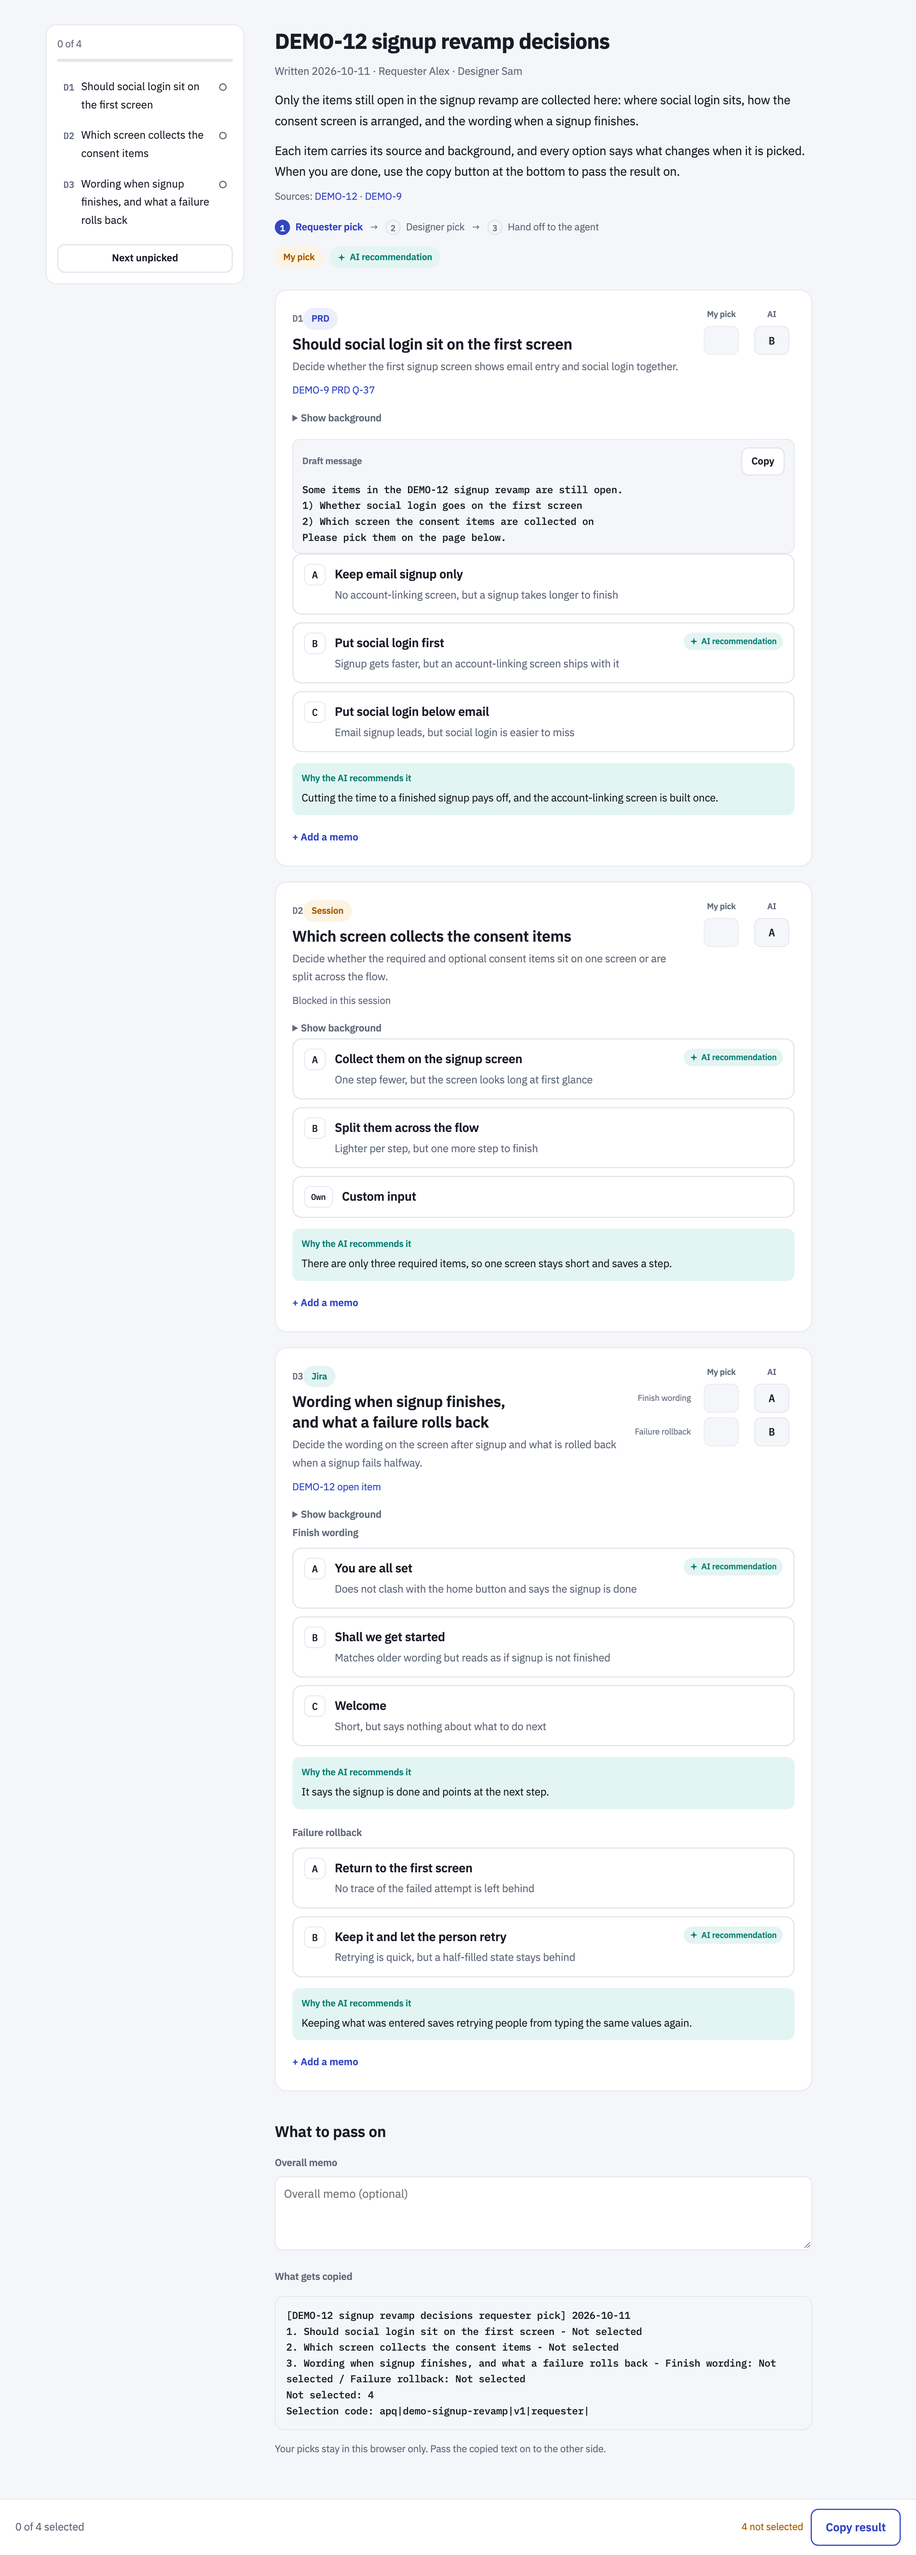
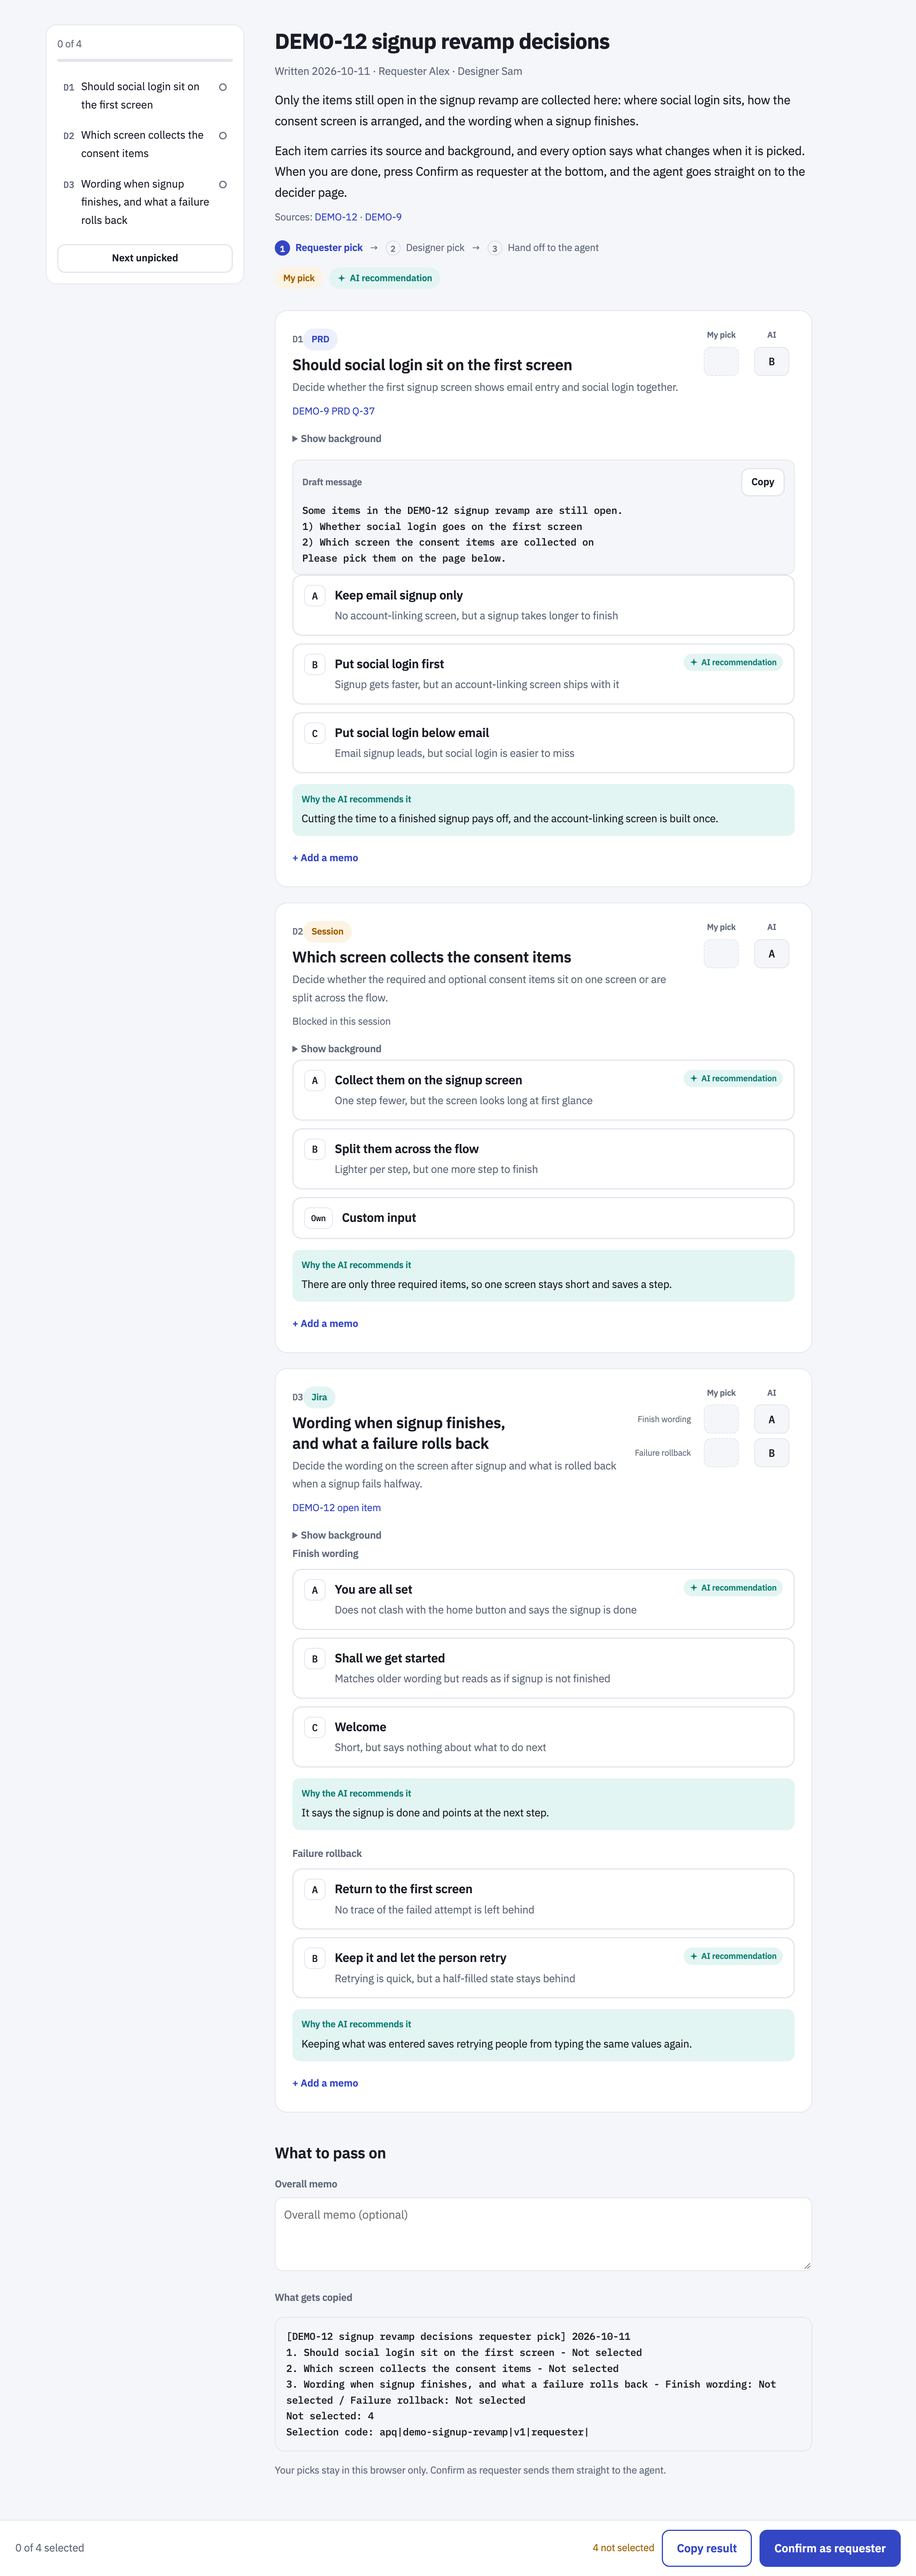
fix: 요청자 확인 페이지의 복사 안내 문구와 README 요청자 예시 그림 교체

diff --git a/skills/pickme/template.html b/skills/pickme/template.html
@@ -338,8 +338,10 @@
       "customNoteHead": "{label} 직접 입력",
       "progressOf": "{total}개 중 {done}개",
       "completeBar": "모두 골랐어요. 결과를 복사해 전달해 주세요",
+      "completeBarSubmit": "모두 골랐어요. 요청자 확인을 눌러 주세요",
       "progressSelected": "{total}개 중 {done}개 선택",
       "toastAllPicked": "모두 골랐어요. 아래 결과 복사를 눌러 주세요",
+      "toastAllPickedSubmit": "모두 골랐어요. 아래 요청자 확인을 눌러 주세요",
       "requesterBadge": "요청자",
       "requesterInputPrefix": "요청자 입력: ",
       "aiBadge": "AI 권장",
@@ -373,6 +375,7 @@
       "noteAria": "전체 메모",
       "copyTargetHead": "복사될 내용",
       "footNote": "선택 내용은 이 브라우저에만 임시로 남습니다. 복사한 내용을 상대방에게 전달해 주세요.",
+      "footNoteSubmit": "선택 내용은 이 브라우저에만 임시로 남습니다. 요청자 확인을 누르면 에이전트에 바로 전달됩니다.",
       "gotoUnselected": "미선택 항목으로",
       "gotoUnselectedShort": "미선택으로",
       "filterOnlyDifferences": "다른 항목만 보기",
@@ -423,8 +426,10 @@
       "customNoteHead": "{label} custom input",
       "progressOf": "{done} of {total}",
       "completeBar": "All picked. Copy the result and pass it on",
+      "completeBarSubmit": "All picked. Press Confirm as requester",
       "progressSelected": "{done} of {total} selected",
       "toastAllPicked": "All picked. Press Copy result below",
+      "toastAllPickedSubmit": "All picked. Press Confirm as requester below",
       "requesterBadge": "Requester",
       "requesterInputPrefix": "Requester input: ",
       "aiBadge": "AI recommendation",
@@ -458,6 +463,7 @@
       "noteAria": "Overall memo",
       "copyTargetHead": "What gets copied",
       "footNote": "Your picks stay in this browser only. Pass the copied text on to the other side.",
+      "footNoteSubmit": "Your picks stay in this browser only. Confirm as requester sends them straight to the agent.",
       "gotoUnselected": "Next unpicked",
       "gotoUnselectedShort": "Next unpicked",
       "filterOnlyDifferences": "Only differing items",
@@ -1042,7 +1048,7 @@
       railFill.style.width = pct;
       mFill.style.width = pct;
       var complete = total > 0 && unselected === 0;
-      abCount.textContent = complete ? t("completeBar") : tf("progressSelected", { total: total, done: done });
+      abCount.textContent = complete ? t(submitMode ? "completeBarSubmit" : "completeBar") : tf("progressSelected", { total: total, done: done });
       abCount.classList.toggle("ready", complete);
       abWarn.textContent = unselected > 0 ? tf("unselectedShort", { n: unselected }) : "";
       abBtn.classList.toggle("primary", complete);
@@ -1052,7 +1058,7 @@
         void actionbar.offsetWidth;
         actionbar.classList.add("pulse");
         setTimeout(function () { actionbar.classList.remove("pulse"); }, 520);
-        toast(t("toastAllPicked"));
+        toast(t(submitMode ? "toastAllPickedSubmit" : "toastAllPicked"));
       }
       completeSeen = complete;
       summaryEl.textContent = buildText();
@@ -1288,7 +1294,7 @@
     sum.appendChild(noteArea);
     sum.appendChild(el("div", { class: "part-label", text: t("copyTargetHead") }));
     sum.appendChild(summaryEl);
-    sum.appendChild(el("p", { class: "foot-note", text: t("footNote") }));
+    sum.appendChild(el("p", { class: "foot-note", text: t(submitMode ? "footNoteSubmit" : "footNote") }));
 
     var doc = el("div", { class: "doc" }, [head, cardList, sum]);
 

diff --git a/skills/pickme/test_render.py b/skills/pickme/test_render.py
@@ -428,7 +428,7 @@ class RenderTests(unittest.TestCase):
         proc = run_render("render", str(EXAMPLE), "--out", str(out))
         self.assertEqual(proc.returncode, 0, proc.stderr)
         _, text = payload_of(out)
-        self.assertIn('abCount.textContent = complete ? t("completeBar") : tf("progressSelected", { total: total, done: done });', text)
+        self.assertIn('abCount.textContent = complete ? t(submitMode ? "completeBarSubmit" : "completeBar") : tf("progressSelected", { total: total, done: done });', text)
         self.assertIn('abCount.classList.toggle("ready", complete);', text)
         self.assertIn(".ab-count.ready {", text)
         ready = re.search(r'\.ab-count\.ready\s*\{([^}]*)\}', text)
@@ -438,7 +438,7 @@ class RenderTests(unittest.TestCase):
         # 완료로 바뀌는 순간에만 한 번 알린다
         self.assertIn("var completeSeen = null;", text)
         self.assertIn("if (completeSeen === false && complete) {", text)
-        self.assertIn('toast(t("toastAllPicked"));', text)
+        self.assertIn('toast(t(submitMode ? "toastAllPickedSubmit" : "toastAllPicked"));', text)
         self.assertRegex(text, r'\.actionbar\.pulse\s+\.btn\s*\{[^}]*animation:\s*abpulse')
         self.assertRegex(text, r'@keyframes abpulse\s*\{')
         motion = REDUCED_MOTION_RE.search(text)
@@ -514,6 +514,22 @@ class RenderTests(unittest.TestCase):
         self.assertIn('abCount.textContent = t("submittedMsg");', text)
         self.assertIn("abSubmit.disabled = true;", text)
         self.assertIn("abBtn.disabled = true;", text)
+
+    def test_submit_mode_guidance_points_at_the_submit_button(self):
+        out = self.tmp / "local.html"
+        proc = run_render("render", str(EXAMPLE), "--out", str(out),
+                          "--submit-url", "http://127.0.0.1:8123/tok/submit")
+        self.assertEqual(proc.returncode, 0, proc.stderr)
+        _, text = payload_of(out)
+        for key in ("footNote", "completeBar", "toastAllPicked"):
+            self.assertIn('t(submitMode ? "%sSubmit" : "%s")' % (key, key), text)
+            # 두 언어 모두 전송 버튼 이름을 안내하고 복사를 말하지 않는다
+            for lang, button in (("ko", "요청자 확인"), ("en", "Confirm as requester")):
+                found = re.findall(r'"%sSubmit": "([^"]*)"' % key, text)
+                self.assertEqual(len(found), 2, key)
+                line = found[0] if lang == "ko" else found[1]
+                self.assertIn(button, line)
+                self.assertNotIn("복사" if lang == "ko" else "Copy", line)
 
     def test_submit_url_is_absent_without_the_flag(self):
         out = self.tmp / "plain.html"

diff --git a/docs/capture.py b/docs/capture.py
@@ -44,6 +44,8 @@ Object.keys(memos).forEach(function (id) {
   area.value = memos[id];
   fire(area, "input");
 });
+// 모두 고르면 뜨는 토스트는 캡처 시점에 따라 찍히기도 해서 그림마다 결과가 달라진다
+document.querySelectorAll(".toast").forEach(function (node) { node.style.display = "none"; });
 console.log("pickme-page-height:" + Math.ceil(document.documentElement.scrollHeight));
 })();</script>"""
 
@@ -172,8 +174,11 @@ def main(argv):
     ud_root = tempfile.mkdtemp(prefix='pickme-chrome-')
     try:
         html = os.path.join(work_dir, '%s.%s.%s.html' % (demo, lang, theme))
-        result = subprocess.run([sys.executable, RENDER, 'render', src, '--out', html],
-                                capture_output=True, text=True)
+        cmd = [sys.executable, RENDER, 'render', src, '--out', html]
+        if demo == 'requester':
+            # 요청자 단계는 serve.py 가 연 페이지처럼 보여야 해서 전송 주소를 넣는다. 실제로 보내지는 않는다.
+            cmd += ['--submit-url', 'http://127.0.0.1:8765/demo/submit']
+        result = subprocess.run(cmd, capture_output=True, text=True)
         if result.returncode != 0:
             die('%s 렌더 실패: %s' % (demo, (result.stderr or result.stdout).strip()))
 

diff --git a/README.md b/README.md
@@ -20,11 +20,11 @@
   <a href="#동작-방식">동작 방식</a>
 </p>
 
-혼자 정할 수 없는 결정은 그대로 쌓입니다. 담당자의 답을 기다리는 동안 화면 작업이 멈추고, 물어보려면 결정 항목을 다시 정리해 메신저에 옮겨 적어야 합니다. pickme 는 그 결정 항목을 한 장의 HTML 페이지로 만들고, 요청자와 결정권자의 선택을 그 페이지에서 받아 결과를 복사 한 번으로 되돌려 줍니다.
+혼자 정할 수 없는 결정은 그대로 쌓입니다. 담당자의 답을 기다리는 동안 화면 작업이 멈추고, 물어보려면 결정 항목을 다시 정리해 메신저에 옮겨 적어야 합니다. pickme 는 그 결정 항목을 한 장의 HTML 페이지로 만들고, 요청자와 결정권자의 선택을 그 페이지에서 받아 결과를 에이전트에 되돌려 줍니다.
 
 - **결정 항목과 근거를 한 페이지에 모읍니다.** 항목마다 배경, 선택지, 고르면 무엇이 바뀌는지, AI 권장과 그 이유가 붙습니다. 결정권자는 원본 문서를 다시 열지 않고 고를 수 있습니다.
 - **단계가 나뉘어 있어도 같은 링크를 씁니다.** 요청자가 먼저 고르고 결정권자가 그 위에서 최종 선택을 합니다. 페이지 파일 하나와 데이터 파일 하나만 있고, 라운드 사이에 바뀌는 것은 데이터뿐이라 URL 이 바뀌지 않습니다.
-- **결과는 붙여넣기 한 번으로 돌아옵니다.** 페이지가 만든 텍스트에는 선택 코드가 들어 있어, 에이전트가 그대로 파싱해 무엇이 정해졌는지 확정합니다. 요청자 단계는 로컬 서버로 열려 `요청자 확인` 버튼으로 바로 에이전트에 넘어갑니다.
+- **결과는 버튼 하나나 붙여넣기 한 번으로 돌아옵니다.** 페이지가 만든 텍스트에는 선택 코드가 들어 있어, 에이전트가 그대로 파싱해 무엇이 정해졌는지 확정합니다. 요청자 단계는 로컬 서버로 열려 `요청자 확인` 버튼으로 바로 에이전트에 넘어갑니다.
 
 <p align="center"><img src="docs/requester.png" alt="요청자 단계 페이지" width="800"></p>
 
@@ -116,7 +116,7 @@ cp -r pickme/skills/pickme ~/.claude/skills/
 |---|---|
 | 1. 요청자 | 페이지가 로컬 서버로 열립니다. 고르고 `요청자 확인` 을 누르면 서버가 답을 받아 에이전트에 넘깁니다 |
 | 2. 결정권자 | 같은 페이지가 공유 호스트나 Orca 아티팩트로 발행됩니다. 결정권자가 고르고 `결과 복사` 로 텍스트를 복사해 요청자에게 보냅니다 |
-| 3. 에이전트 | 붙여넣은 텍스트를 `render.py apply` 가 파싱해 무엇이 정해졌는지 확정하고, 막혀 있던 작업을 이어 갑니다 |
+| 3. 에이전트 | 결정권자가 보낸 텍스트를 `render.py apply` 가 파싱해 무엇이 정해졌는지 확정하고, 막혀 있던 작업을 이어 갑니다 |
 
 요청자 단계가 필요 없으면 데이터에 `skip_requester` 를 두고 결정권자 페이지로 바로 발행합니다. 결정권자의 역할은 자유롭게 정합니다 — PO, 디자이너, 개발자, QA 처럼 그 결정을 쥔 사람이면 됩니다. 역할 이름은 화면에 그대로 나오므로 팀에서 쓰는 낱말을 씁니다.
 

diff --git a/README.en.md b/README.en.md
@@ -20,11 +20,11 @@
   <a href="#how-it-works">How it works</a>
 </p>
 
-Decisions you cannot make alone pile up. Screen work stalls while you wait for the person who owns the call, and asking them means rewriting the open items into a chat message. pickme turns those items into a single HTML page, takes the requester's and the decider's picks on that page, and returns the result with one copy.
+Decisions you cannot make alone pile up. Screen work stalls while you wait for the person who owns the call, and asking them means rewriting the open items into a chat message. pickme turns those items into a single HTML page, takes the requester's and the decider's picks on that page, and returns the result to the agent.
 
 - **The items and their evidence live on one page.** Each item carries its background, its options, what changes when each one is picked, and the AI recommendation with its reason. The decider can pick without reopening the source document.
 - **Both rounds share one link.** The requester picks first and the decider makes the final pick over it. There is one page file and one data file, and only the data changes between rounds, so the URL does not.
-- **The result comes back with one paste.** The text the page builds carries a selection code, so the agent parses it and fixes what was decided. The requester round opens on a local server, and its `Confirm as requester` button hands the reply straight to the agent.
+- **The result comes back with one button or one paste.** The text the page builds carries a selection code, so the agent parses it and fixes what was decided. The requester round opens on a local server, and its `Confirm as requester` button hands the reply straight to the agent.
 
 <p align="center"><img src="docs/requester.en.png" alt="The requester page" width="800"></p>
 
@@ -116,7 +116,7 @@ Three steps. The agent collects the open decisions and writes the data, the requ
 |---|---|
 | 1. Requester | The page opens on a local server. Picking and pressing `Confirm as requester` hands the reply to the agent |
 | 2. Decider | The same page is published to a shared host or as an Orca artifact. The decider picks and copies the result text back to the requester |
-| 3. Agent | `render.py apply` parses the pasted text, fixes what was decided, and continues the work that was blocked |
+| 3. Agent | `render.py apply` parses the text the decider sent, fixes what was decided, and continues the work that was blocked |
 
 When there is no requester round, put `skip_requester` in the data and publish the decider page directly. The decider's role is free: a PO, a designer, a developer, a QA — whoever owns the call. The role name goes on the screen as written, so use the wording the team uses.
 

diff --git a/skills/pickme/SKILL.md b/skills/pickme/SKILL.md
@@ -1,6 +1,6 @@
 ---
 name: pickme
-description: "Ask someone else — a PO, designer, developer, QA, or anyone who owns the call — to decide open decisions through a shared HTML page: the requester optionally picks first, the AI recommendation is marked, the decider makes the final pick, and a copy button returns the result. Use when the user types /pickme or $pickme, or asks to get decisions from a PO, designer, or another developer."
+description: "Ask someone else — a PO, designer, developer, QA, or anyone who owns the call — to decide open decisions through a shared HTML page: the requester optionally picks first, the AI recommendation is marked, the decider makes the final pick, and the result comes back to the agent. Use when the user types /pickme or $pickme, or asks to get decisions from a PO, designer, or another developer."
 argument-hint: "[topic or ticket key]"
 ---
 
